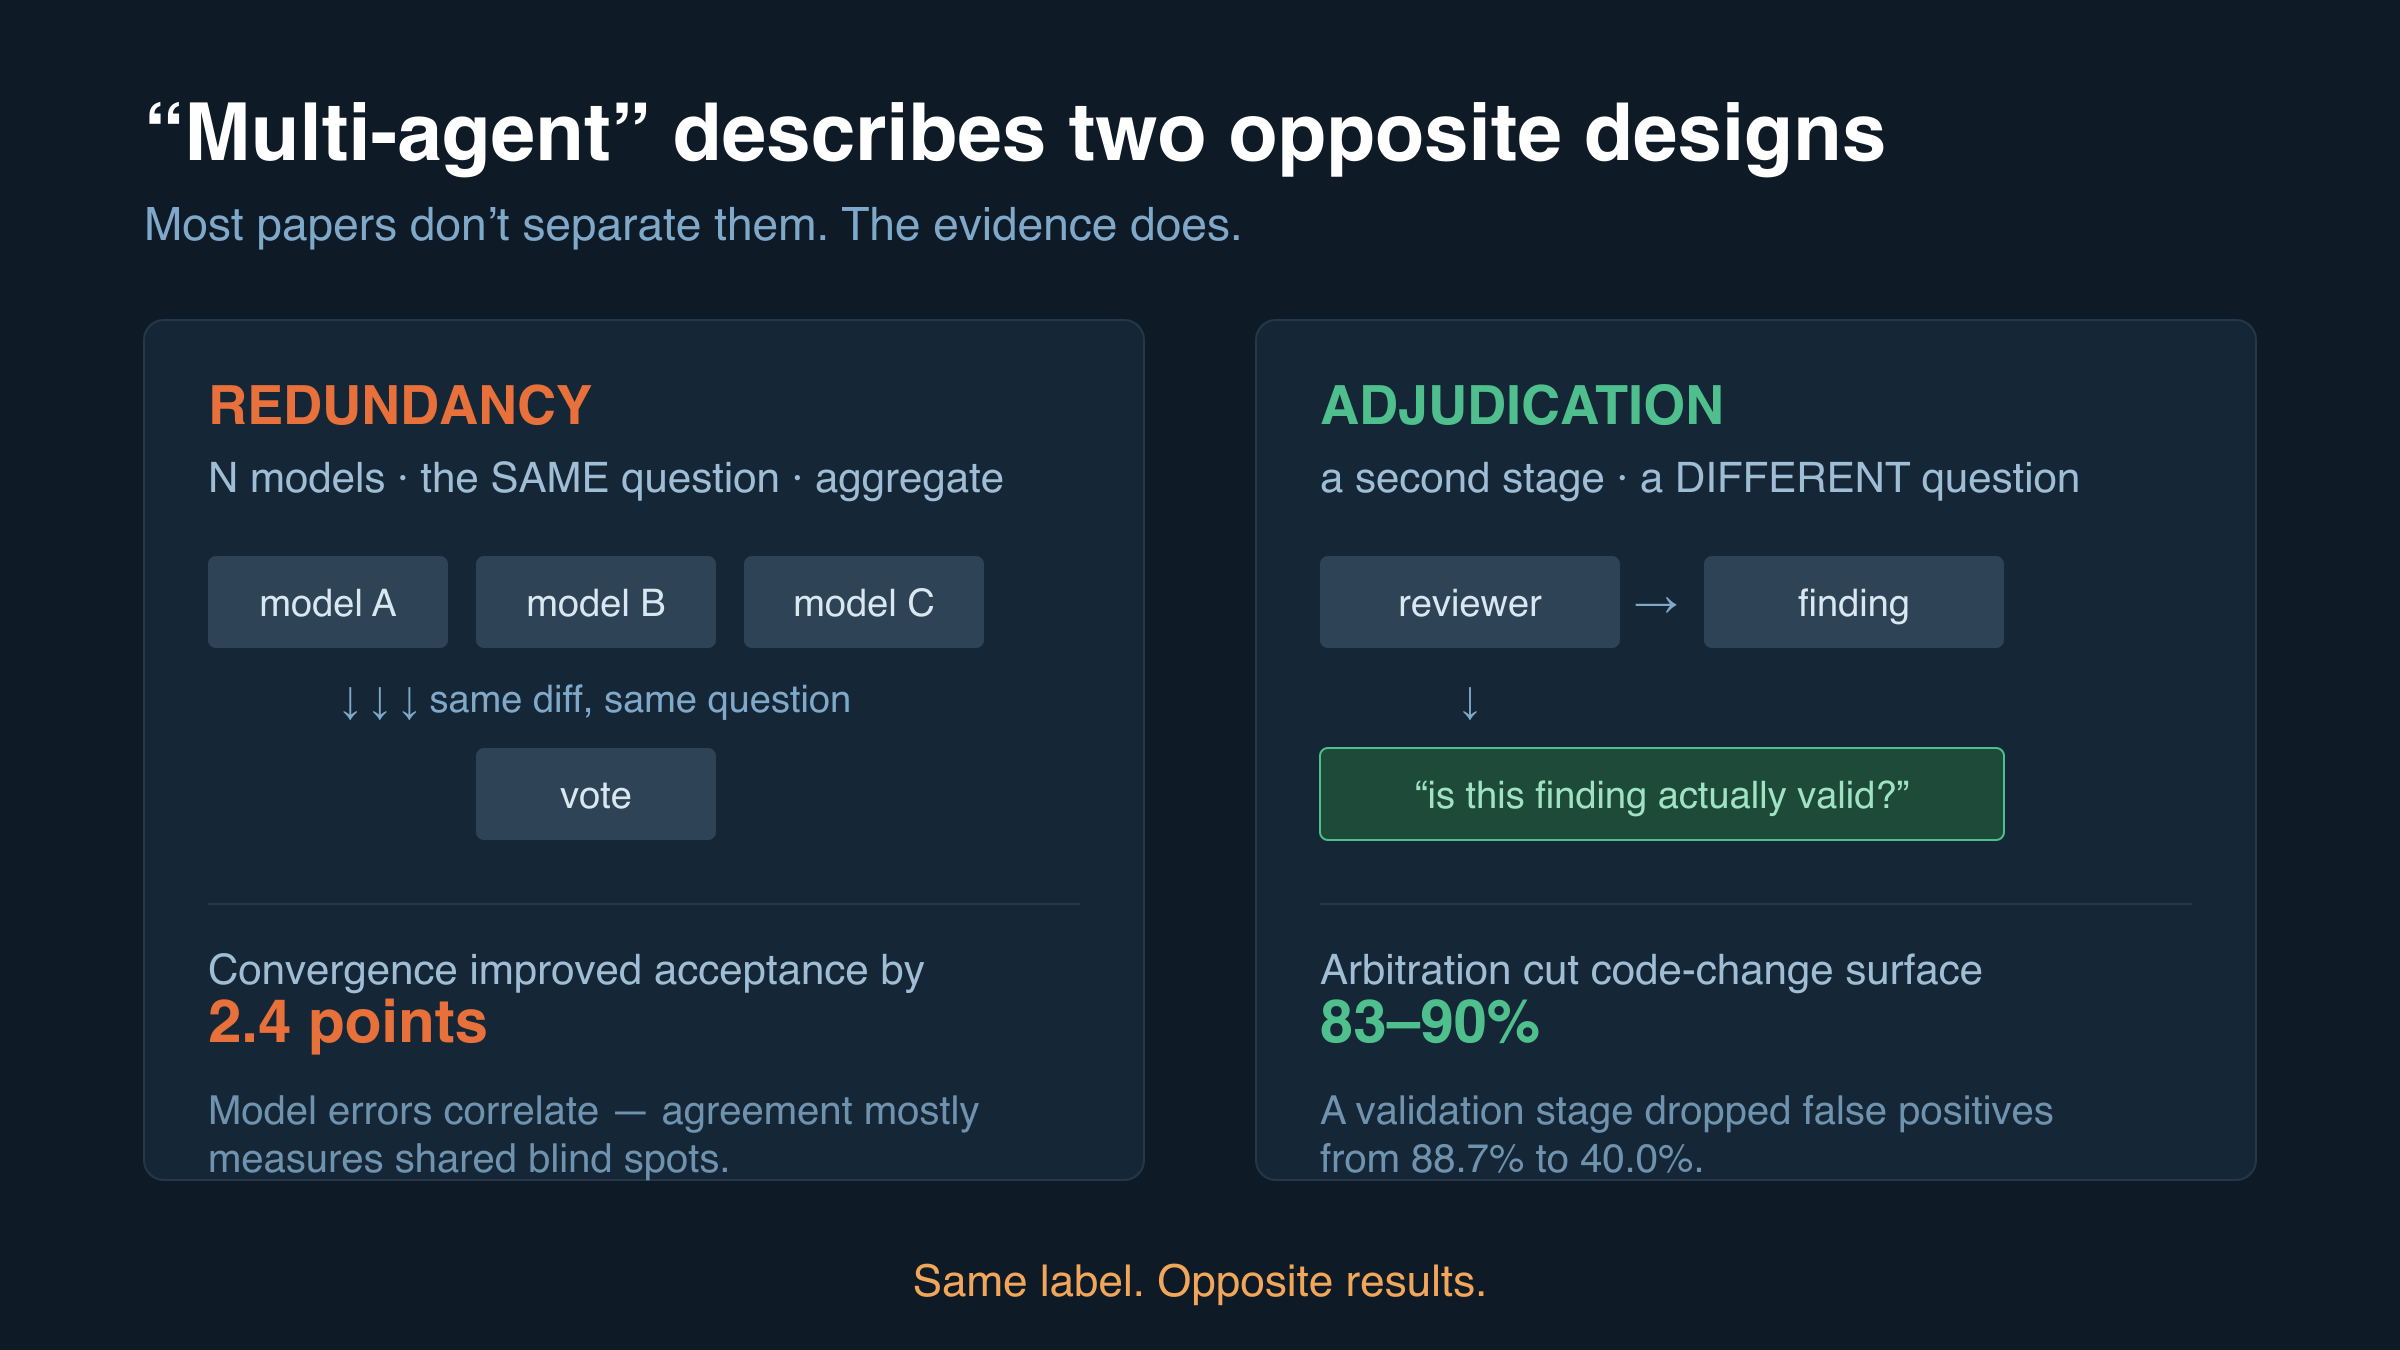
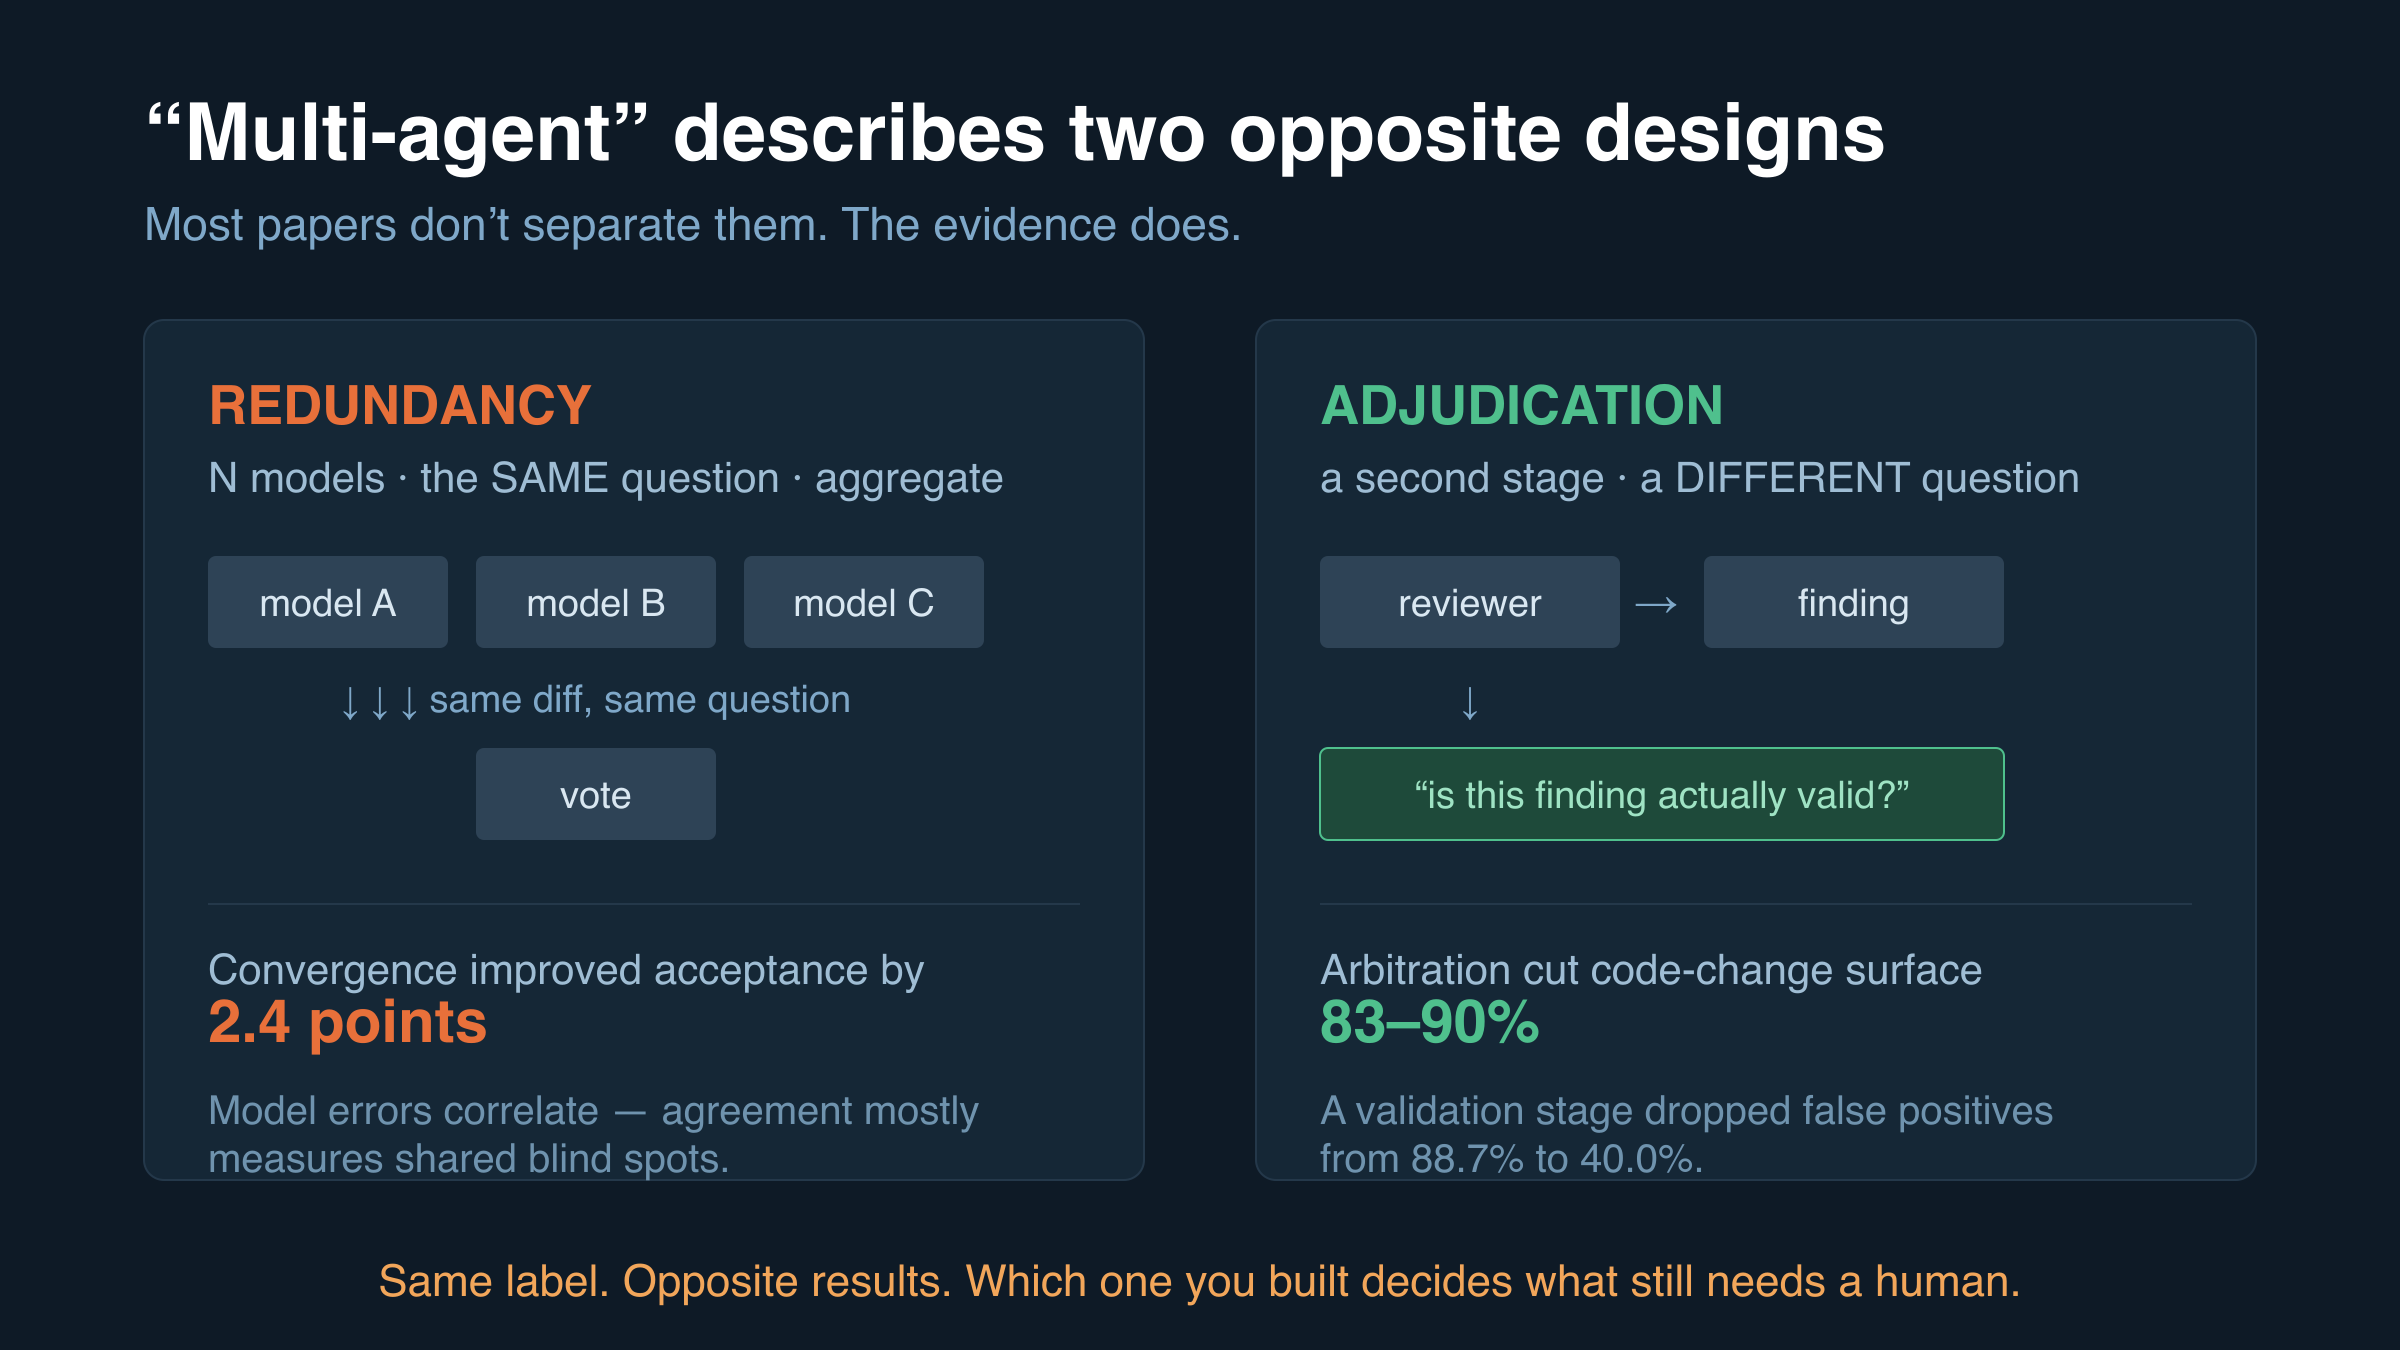
docs(outreach): reframe the set around scaling HUMAN oversight
The drafts had drifted into a tooling story -- which AI checking design wins
-- and away from the thesis, which is how a human stays meaningfully in
control of work they can no longer read all of.

Article now opens on that framing explicitly: telling reviewers to try harder
survives neither the arithmetic nor the psychology (automation complacency
appears under exactly these conditions and resists training), so the real
design problem is allocation -- what can be safely handed to a machine so
human attention lands where it changes the outcome.

The multi-agent finding is reconnected to that. The reason to care which
design you built is that it determines what you can stop looking at: reduce
human review because three models agreed and you have removed the human and
kept the error, because the errors correlate. Reduce it because a validation
stage suppressed false positives and you removed genuine noise. One buys
scale, the other buys the appearance of it.

Practical recommendations now read against a single test -- does this protect
scarce human attention, or just consume it differently -- and recommendation 4
gains the point that code-made decisions are the only version where a human
can meaningfully set policy and be overruled about it.

Article closes on where to put humans rather than whether to have them. Teaser
and Post 03 carry the same frame. Graphic footer now reads "Which one you
built decides what still needs a human."
[…]

Changed region(s): [[0.1562, 0.9333, 0.8438, 0.9644]]

diff --git a/Outreach/LinkedIn_Article_01_SLR_Findings_Draft.md b/Outreach/LinkedIn_Article_01_SLR_Findings_Draft.md
@@ -26,7 +26,14 @@ curves appear to cross: the artifact is measurably riskier, and it receives *les
 spent the last several months trying to establish what is actually known about that — not what people
 assert, but what has been demonstrated.
 
-Here is what the literature does and does not support.
+The question underneath all of it isn't how to make machine checking better. It's **how a human stays
+meaningfully in control of work they can no longer read all of.** Telling reviewers to try harder
+doesn't survive the arithmetic, and it doesn't survive the psychology either — automation complacency
+shows up precisely under these conditions, in experts and novices alike, and resists training.
+
+So the real design problem is allocation: **what can be safely handed to a machine, so that human
+attention lands where it actually changes the outcome?** Every finding below is a partial answer to
+that, or a warning about answering it wrong.
 
 ### How I got here
 
@@ -64,6 +71,13 @@ of a second model's opinion.
 
 Same label. Opposite results. Most papers don't separate them — and neither did my own taxonomy until
 three weeks ago, which is how I know the distinction is easy to miss.
+
+**Why this matters for human oversight specifically.** The reason to care which design you built is
+that it determines *what you can stop looking at*. If you reduce human review because three models
+agreed, you have reduced it on the basis of correlated blind spots — you have removed the human and
+kept the error. If you reduce it because a validation stage suppressed the false positives, you have
+removed work that was genuinely noise. **One of those buys you scale; the other buys you the appearance
+of it.**
 
 There's a second-order version of this worth naming. Among systems that do use a checking stage, almost
 all use **one-directional** critique: a dedicated critic reviewing a producer's output. Agents actually
@@ -104,6 +118,9 @@ Five things I'd act on if I were building or buying AI coding tooling tomorrow. 
 studies above rather than in my own preferences — which is also why the list is shorter than you might
 expect.
 
+Read them all against one question: **does this protect scarce human attention, or just consume it
+differently?**
+
 **1. Make the second stage ask a different question.** If your pipeline's answer to "is this reliable?"
 is *more models voting*, you are paying for the mechanism with the weakest evidence behind it. A
 validation stage that asks "is this finding valid?" is the one that keeps showing measurable results.
@@ -120,7 +137,9 @@ third model that fails like the first two buys nothing.
 **4. Let code make the decision; let the model produce the evidence.** Several of the better-performing
 designs have models emit findings or scores while deterministic code decides accept / reject /
 escalate. A threshold can be moved, tested and explained; a model's verdict cannot. It also means the
-check can't be skipped — instruction-following is probabilistic, a state transition isn't.
+check can't be skipped — instruction-following is probabilistic, a state transition isn't. **And it is
+the only version where a human can meaningfully set policy**: you can argue about where to put a
+threshold, and be overruled about it. You cannot argue with a model's mood.
 
 **5. Use the boring tools where they apply.** Linters, scanners, type checkers and test suites have
 knowable, stable error profiles. Don't spend an LLM call on something a deterministic check already
@@ -145,10 +164,16 @@ because a human asked a different question of its output, rather than counting h
 
 ### What I'd like to know
 
-If you're running AI review over real diffs today: are your models answering the **same** question, or
-**different** ones? And does anyone check whether the flagged issues were real?
+None of this is an argument for taking humans out. It's an argument about **where to put them.** The
+scaling problem isn't solved by a better reviewer or a better model — it's solved, if at all, by
+deciding what genuinely needs a person and then making sure those things reliably reach one.
 
-I'll be writing next about what this implies for building oversight that actually scales.
+The literature is much better at proposing mechanisms than at telling you how that allocation works in
+a real organisation under deadline. That's the gap I'm spending my PhD on.
+
+If you have AI writing code in your org today: **what actually reaches a human, and who decided that?**
+
+I'll write next about the questions this raised that nobody has answered.
 
 ---
 

diff --git a/Outreach/LinkedIn_Post_02_SLR_Findings_Draft.md b/Outreach/LinkedIn_Post_02_SLR_Findings_Draft.md
@@ -39,14 +39,18 @@ All figures verified 2026-08-29 against the live Zotero library and `slr-phase4/
 **If your answer to “is this AI-generated code safe to merge?” is several models voting, the evidence
 says you built the weaker design.**
 
-I screened 9,518 papers on keeping human oversight of AI-generated code from collapsing under volume.
-147 read in full. 72 survived.
+AI writes code faster than anyone can read it. The interesting problem isn't making the machine
+check better — it's **deciding what still needs a human, and making sure those things actually reach
+one.**
+
+I screened 9,518 papers looking for what's known about that. 147 read in full. 72 survived.
 
 Three things came out of it:
 
 → **"Multi-agent review" describes two opposite designs**, and they don't perform remotely alike. One
-is the intuitive one. It's the weaker one. Most papers don't separate them — and neither did my own
-taxonomy until three weeks ago.
+is the intuitive one. It's the weaker one — and if it's the reason you've reduced human review, you've
+removed the human and kept the error. Most papers don't separate the two. Neither did my own taxonomy
+until three weeks ago.
 
 → **The problem everyone cites is far less measured than it sounds.** The strongest study I found is
 genuinely alarming. Its authors also name an alternative explanation for their own headline result —

diff --git a/Outreach/LinkedIn_Post_03_Open_Questions_Draft.md b/Outreach/LinkedIn_Post_03_Open_Questions_Draft.md
@@ -38,6 +38,10 @@ a concrete, checkable claim about the state of the literature.
 Last week I wrote up what the literature establishes. This is the other half — the questions it kept
 raising and never answered.
 
+They all circle one thing: **if nobody can read everything any more, how does a human stay meaningfully
+in control?** Not "is there a human in the loop" — that's a checkbox. How does the *scarce* thing get
+spent where it matters.
+
 **1. Who actually reviews AI-generated code, and at what point?**
 The corpus is full of proposed mechanisms: gates, panels, rubrics, risk scores. It is nearly empty of
 observation. I can describe dozens of designs and almost no practices. Nobody has written down who
@@ -67,8 +71,8 @@ mostly done the first.
 ---
 
 That's the gap I'm spending my PhD on: not another oversight mechanism, but an account of how
-organisations actually practise oversight of AI-generated code — and which practices survive contact
-with volume.
+organisations actually keep humans meaningfully in control of AI-generated code — and which of those
+practices survive contact with volume.
 
 More on that soon.
 
